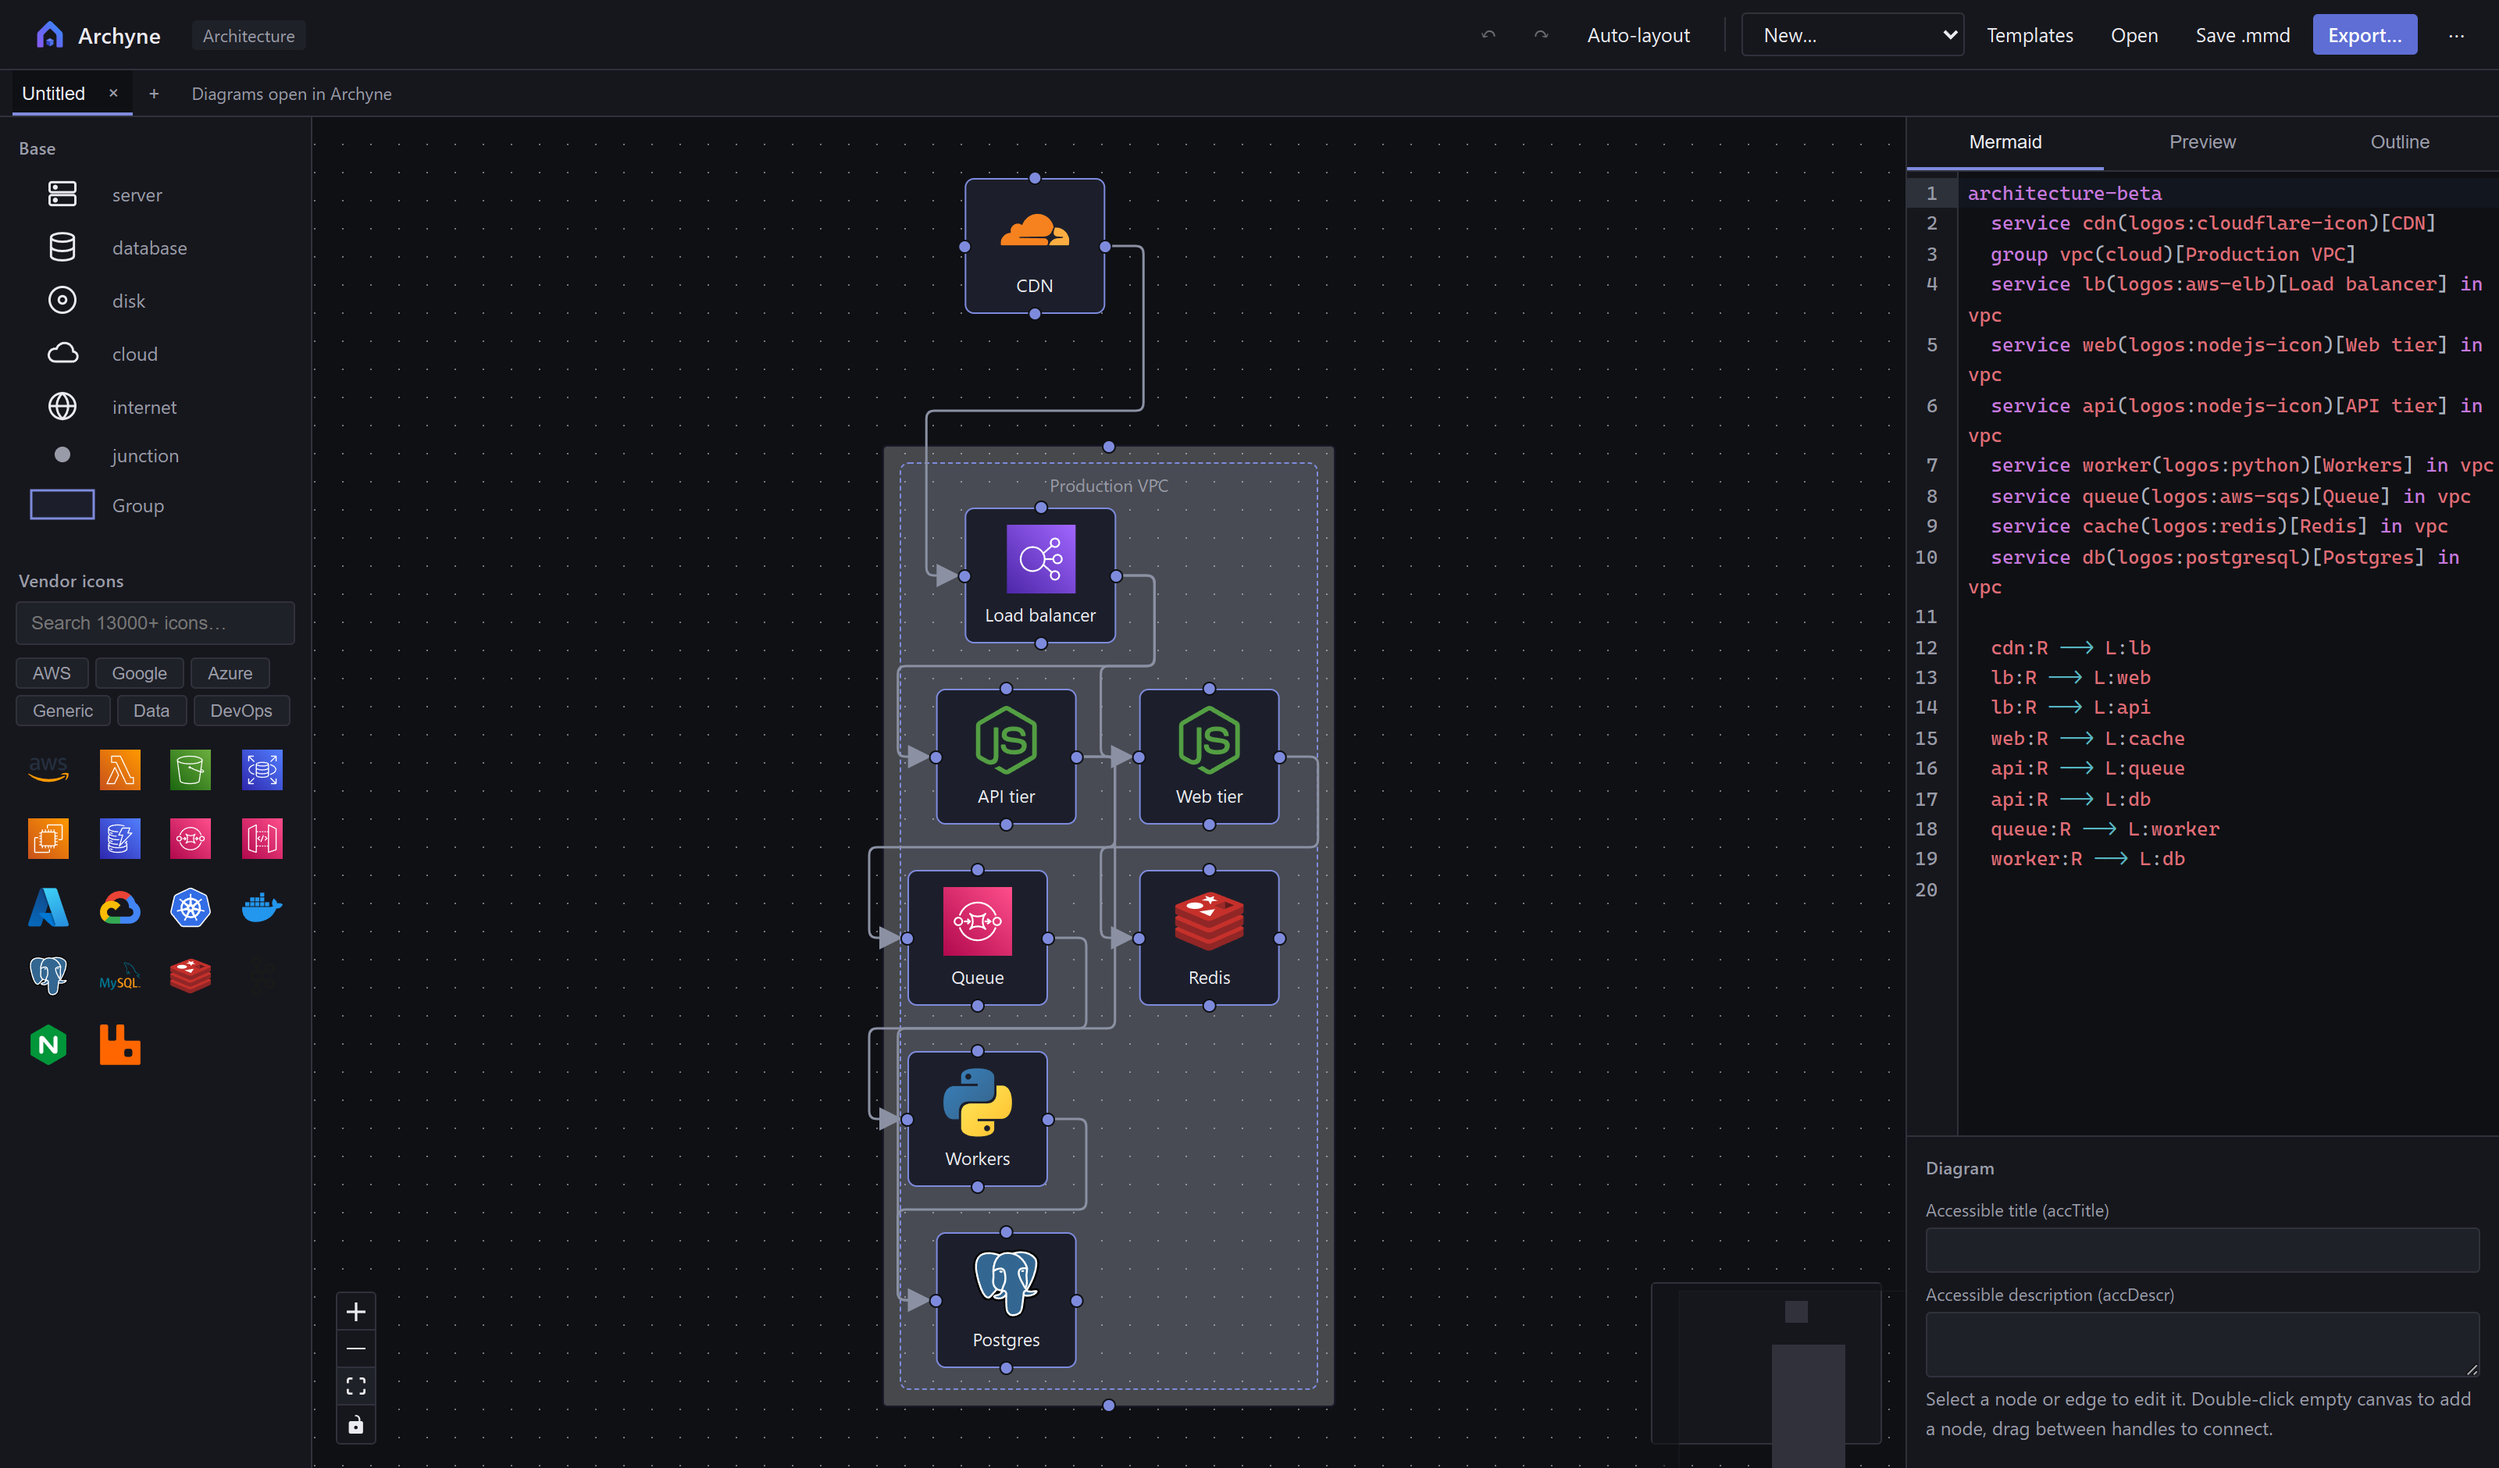
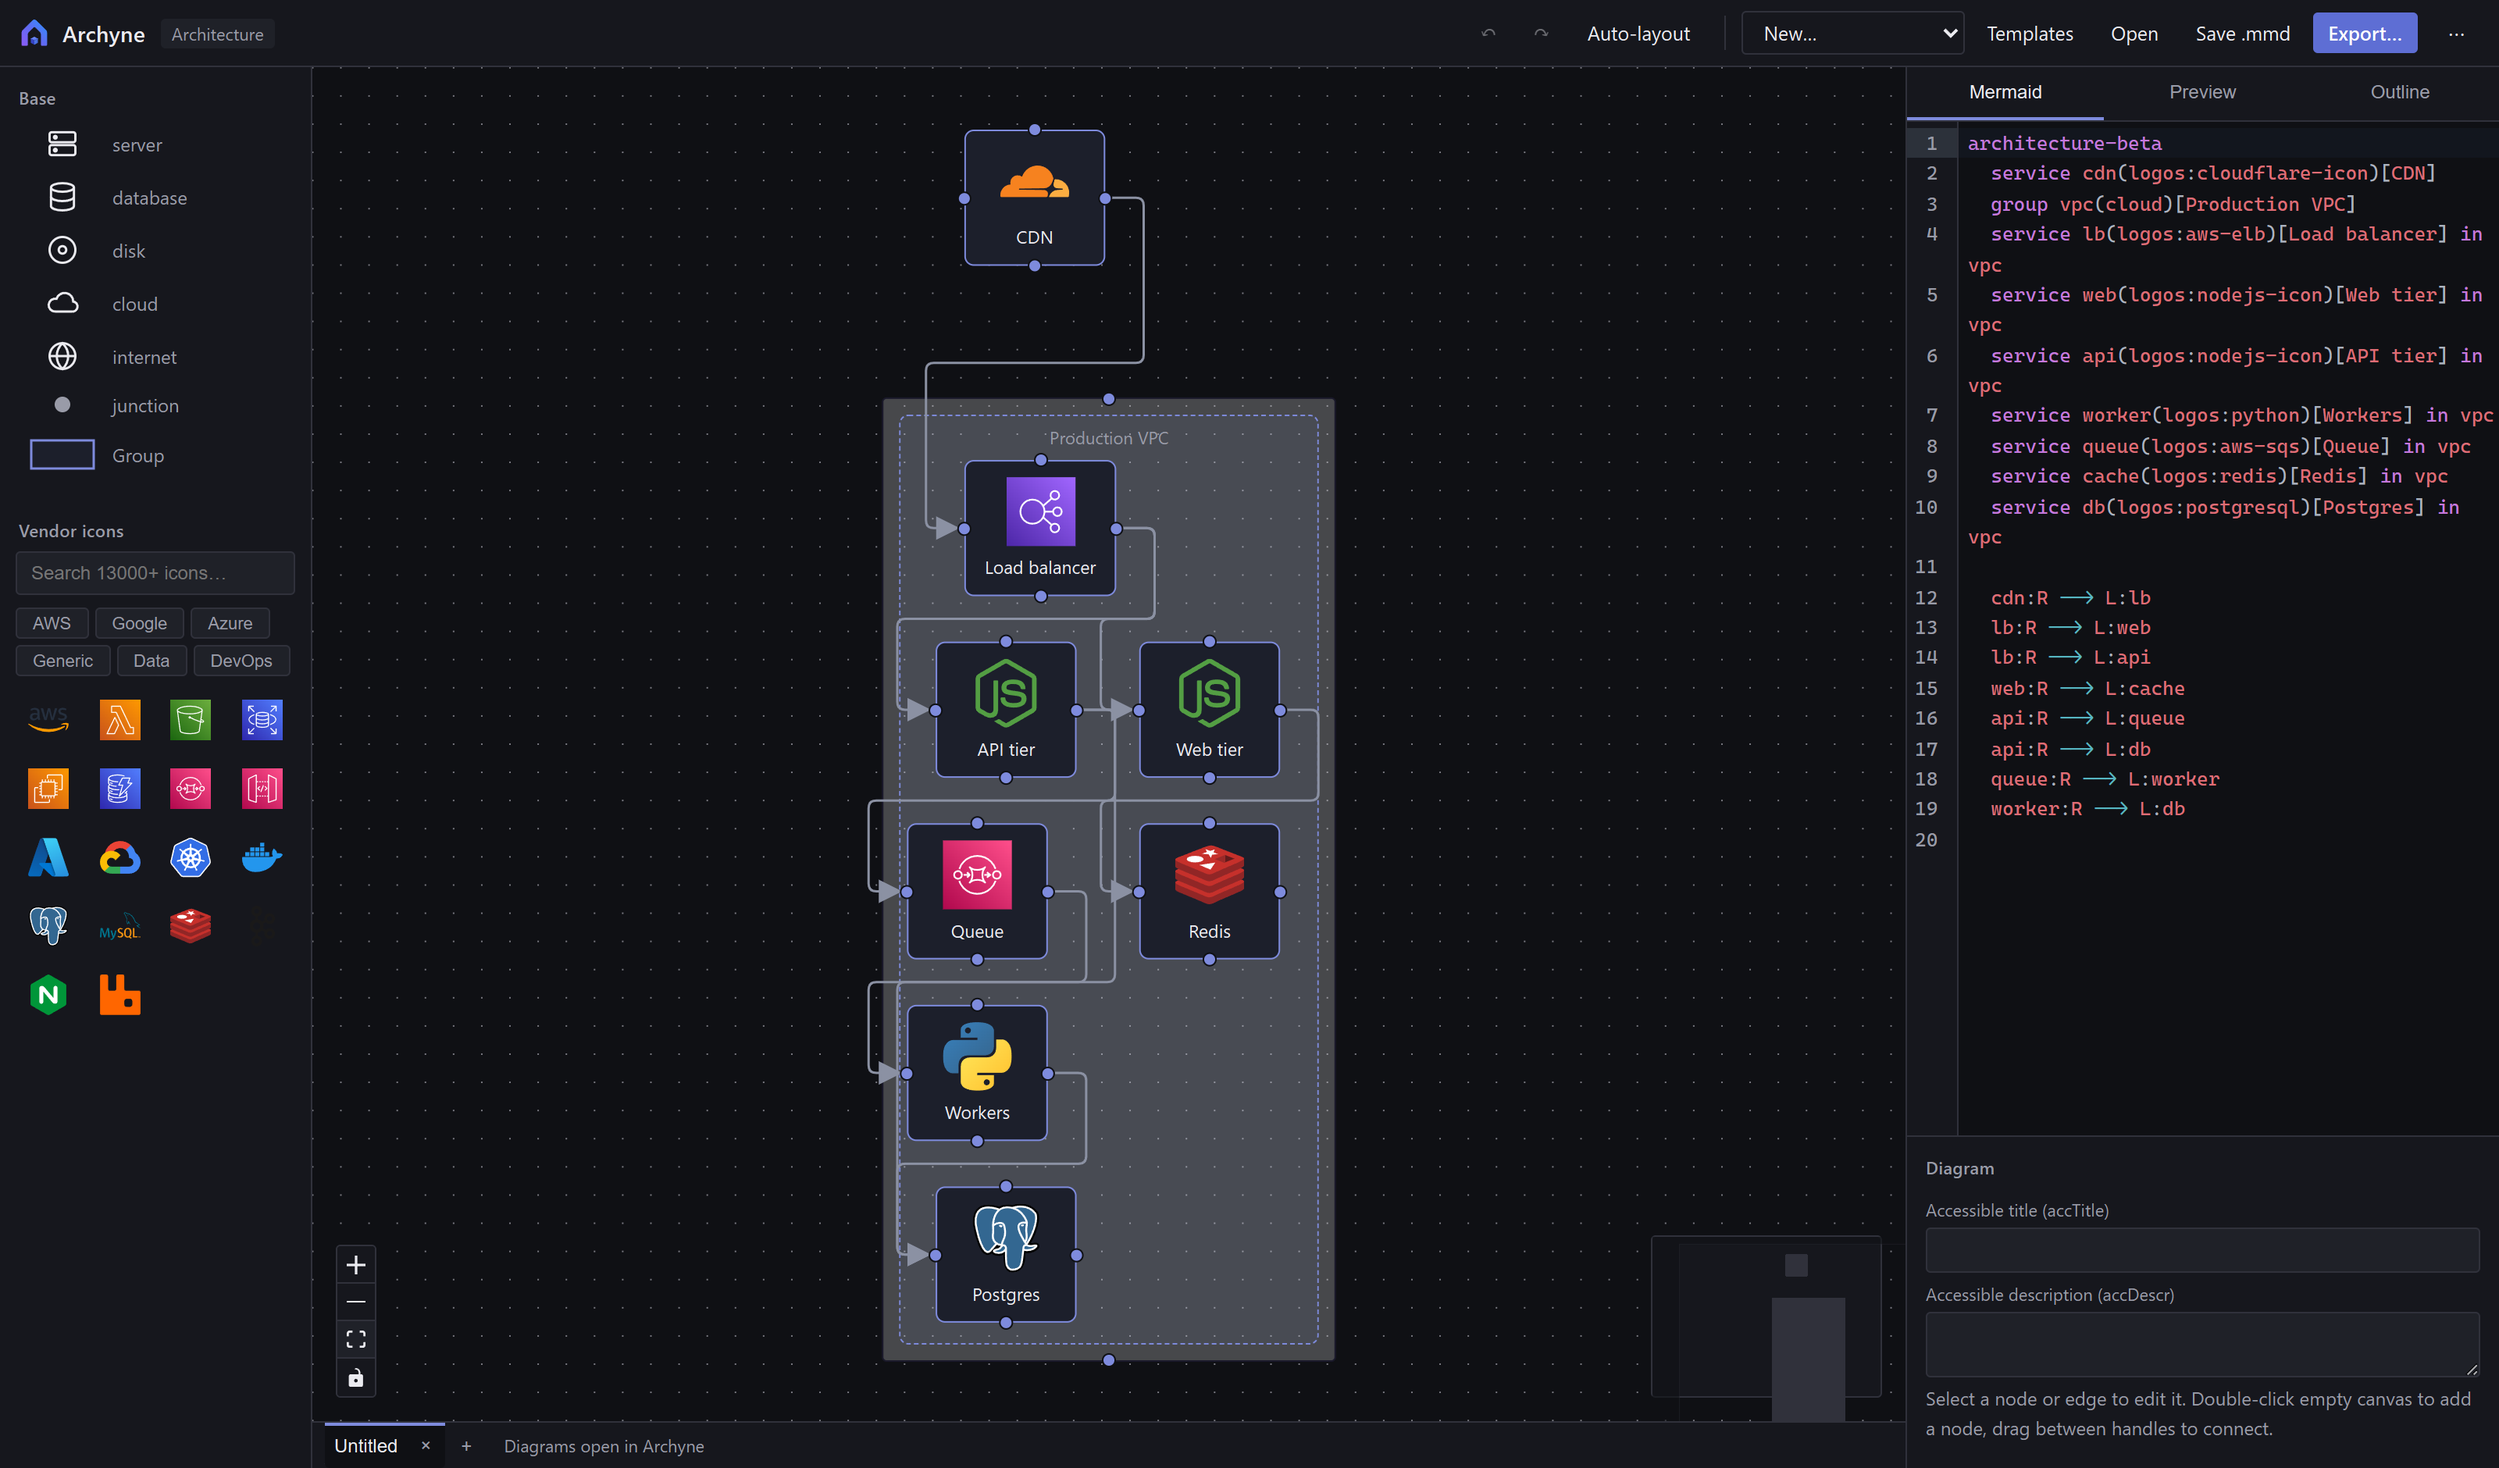
Scope the tab strip to the diagram, and stop the wordmark being a button
Two pieces of feedback from using it.

The tab strip spanned the whole window, above the palette and the source
panel as well as the canvas. But the tabs belong to the diagram, not to the
application: the palette and the inspector do not change when you switch
documents. It now sits below the canvas, in that column only — where a
spreadsheet keeps its sheet tabs, and for the same reason. The active
marker moved to the top edge accordingly, so the selected tab reads as
continuous with the canvas above it.

And clicking the Archyne wordmark opened the About dialog, which is not what
a logo is expected to do — a click there reads as "go home" or as nothing at
all, not "show me licences". It is a plain lockup now. About was already in
the overflow menu, so nothing became unreachable; the accessibility audit
opens it there instead.

Twenty surface/theme combinations, no violations; RTL sound.

diff --git a/src/styles.css b/src/styles.css
@@ -190,14 +190,13 @@ body,
   background: var(--border);
 }
 
-.brand-button {
+.brand-lockup {
   display: flex;
   align-items: center;
   gap: 8px;
   background: none;
   border: none;
   padding: 0;
-  cursor: pointer;
   color: var(--text);
 }
 
@@ -415,9 +414,17 @@ body,
   min-height: 0;
 }
 
+.canvas-column {
+  flex: 1;
+  min-width: 0;
+  display: flex;
+  flex-direction: column;
+}
+
 .canvas-wrap {
   flex: 1;
   min-width: 0;
+  min-height: 0;
 }
 
 .side {
@@ -1880,7 +1887,7 @@ body,
   padding: 0 8px;
   height: 30px;
   background: var(--panel);
-  border-bottom: 1px solid var(--border);
+  border-top: 1px solid var(--border);
   overflow-x: auto;
   overflow-y: hidden;
   scrollbar-width: thin;
@@ -1891,11 +1898,13 @@ body,
   display: flex;
   align-items: center;
   min-width: 0;
-  border-radius: var(--r-sm) var(--r-sm) 0 0;
+  border-radius: 0 0 var(--r) var(--r);
 }
 .doc-tab.active {
   background: var(--bg);
-  box-shadow: inset 0 -2px 0 var(--accent);
+  /* The marker sits on the edge the strip is attached to, so the active tab
+     reads as continuous with the canvas above it. */
+  box-shadow: inset 0 2px 0 var(--accent);
 }
 
 .doc-tabs button {

diff --git a/src/components/Toolbar.tsx b/src/components/Toolbar.tsx
@@ -86,15 +86,13 @@ export function Toolbar() {
     <header className="toolbar">
       {/* Identity and document state — what you are looking at. */}
       <div className="tb-group tb-identity">
-        <button
-          className="brand-button"
-          title={t("toolbar.aboutTitle")}
-          aria-label={t("toolbar.about")}
-          onClick={() => setShowAbout(true)}
-        >
+        {/* A wordmark, not a control. It used to open the About dialog, which
+            is not what a logo is expected to do; About now sits in the
+            overflow menu with the other occasional things. */}
+        <span className="brand-lockup">
           <img src="./logo.svg" alt="" className="brand-logo" />
           <span className="brand">{t("app.name")}</span>
-        </button>
+        </span>
         <span className="kind-badge" role="status">
           {unsupported ? t("unsupported.badge", { type: unsupported }) : t(`kind.${kind}`)}
         </span>

diff --git a/src/App.tsx b/src/App.tsx
@@ -188,12 +188,16 @@ export default function App() {
       )}
       <div className="app">
         <Toolbar />
-        <DocumentTabs />
         <div
           className={`main${paletteOpen ? " palette-open" : ""}${sideOpen ? " side-open" : ""}`}
         >
           <Palette />
-          <CanvasView />
+          {/* The tab strip belongs to the diagram, not to the window, so it
+              spans the canvas column rather than the whole application. */}
+          <div className="canvas-column">
+            <CanvasView />
+            <DocumentTabs />
+          </div>
           <aside className="side" aria-label={t("panel.sourceAndInspector")}>
             <CodePanel />
             <Inspector />
